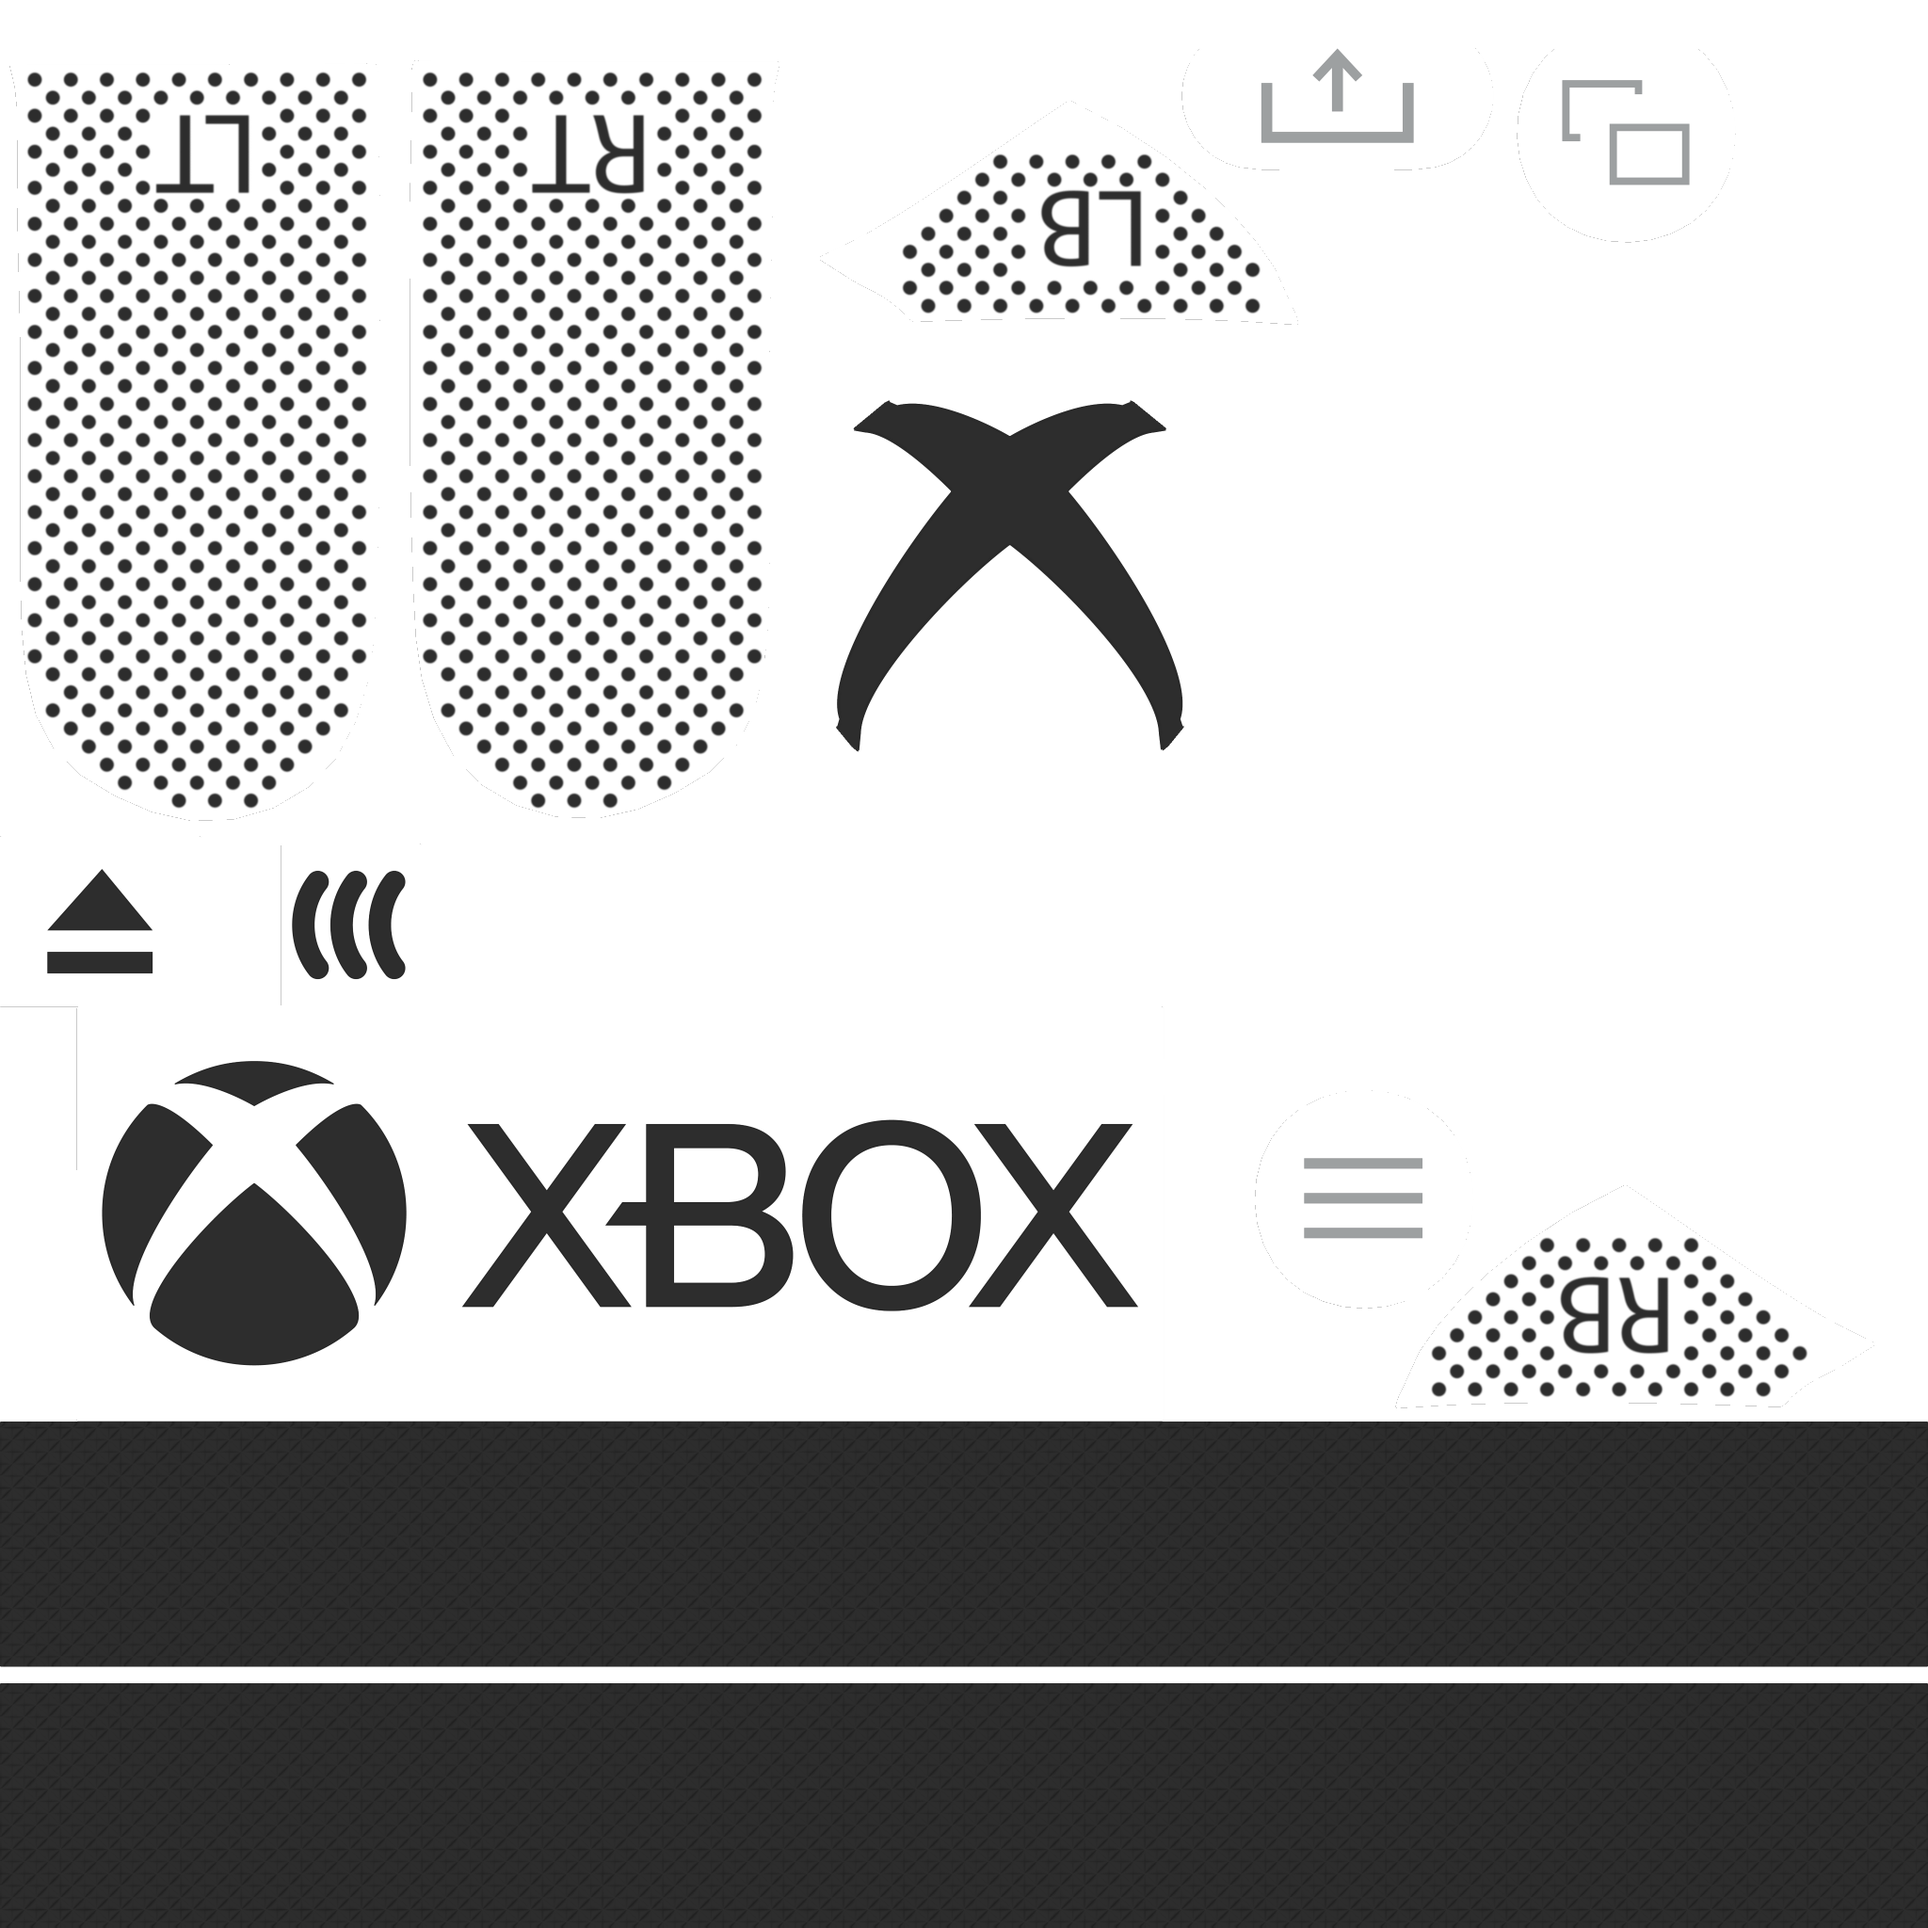
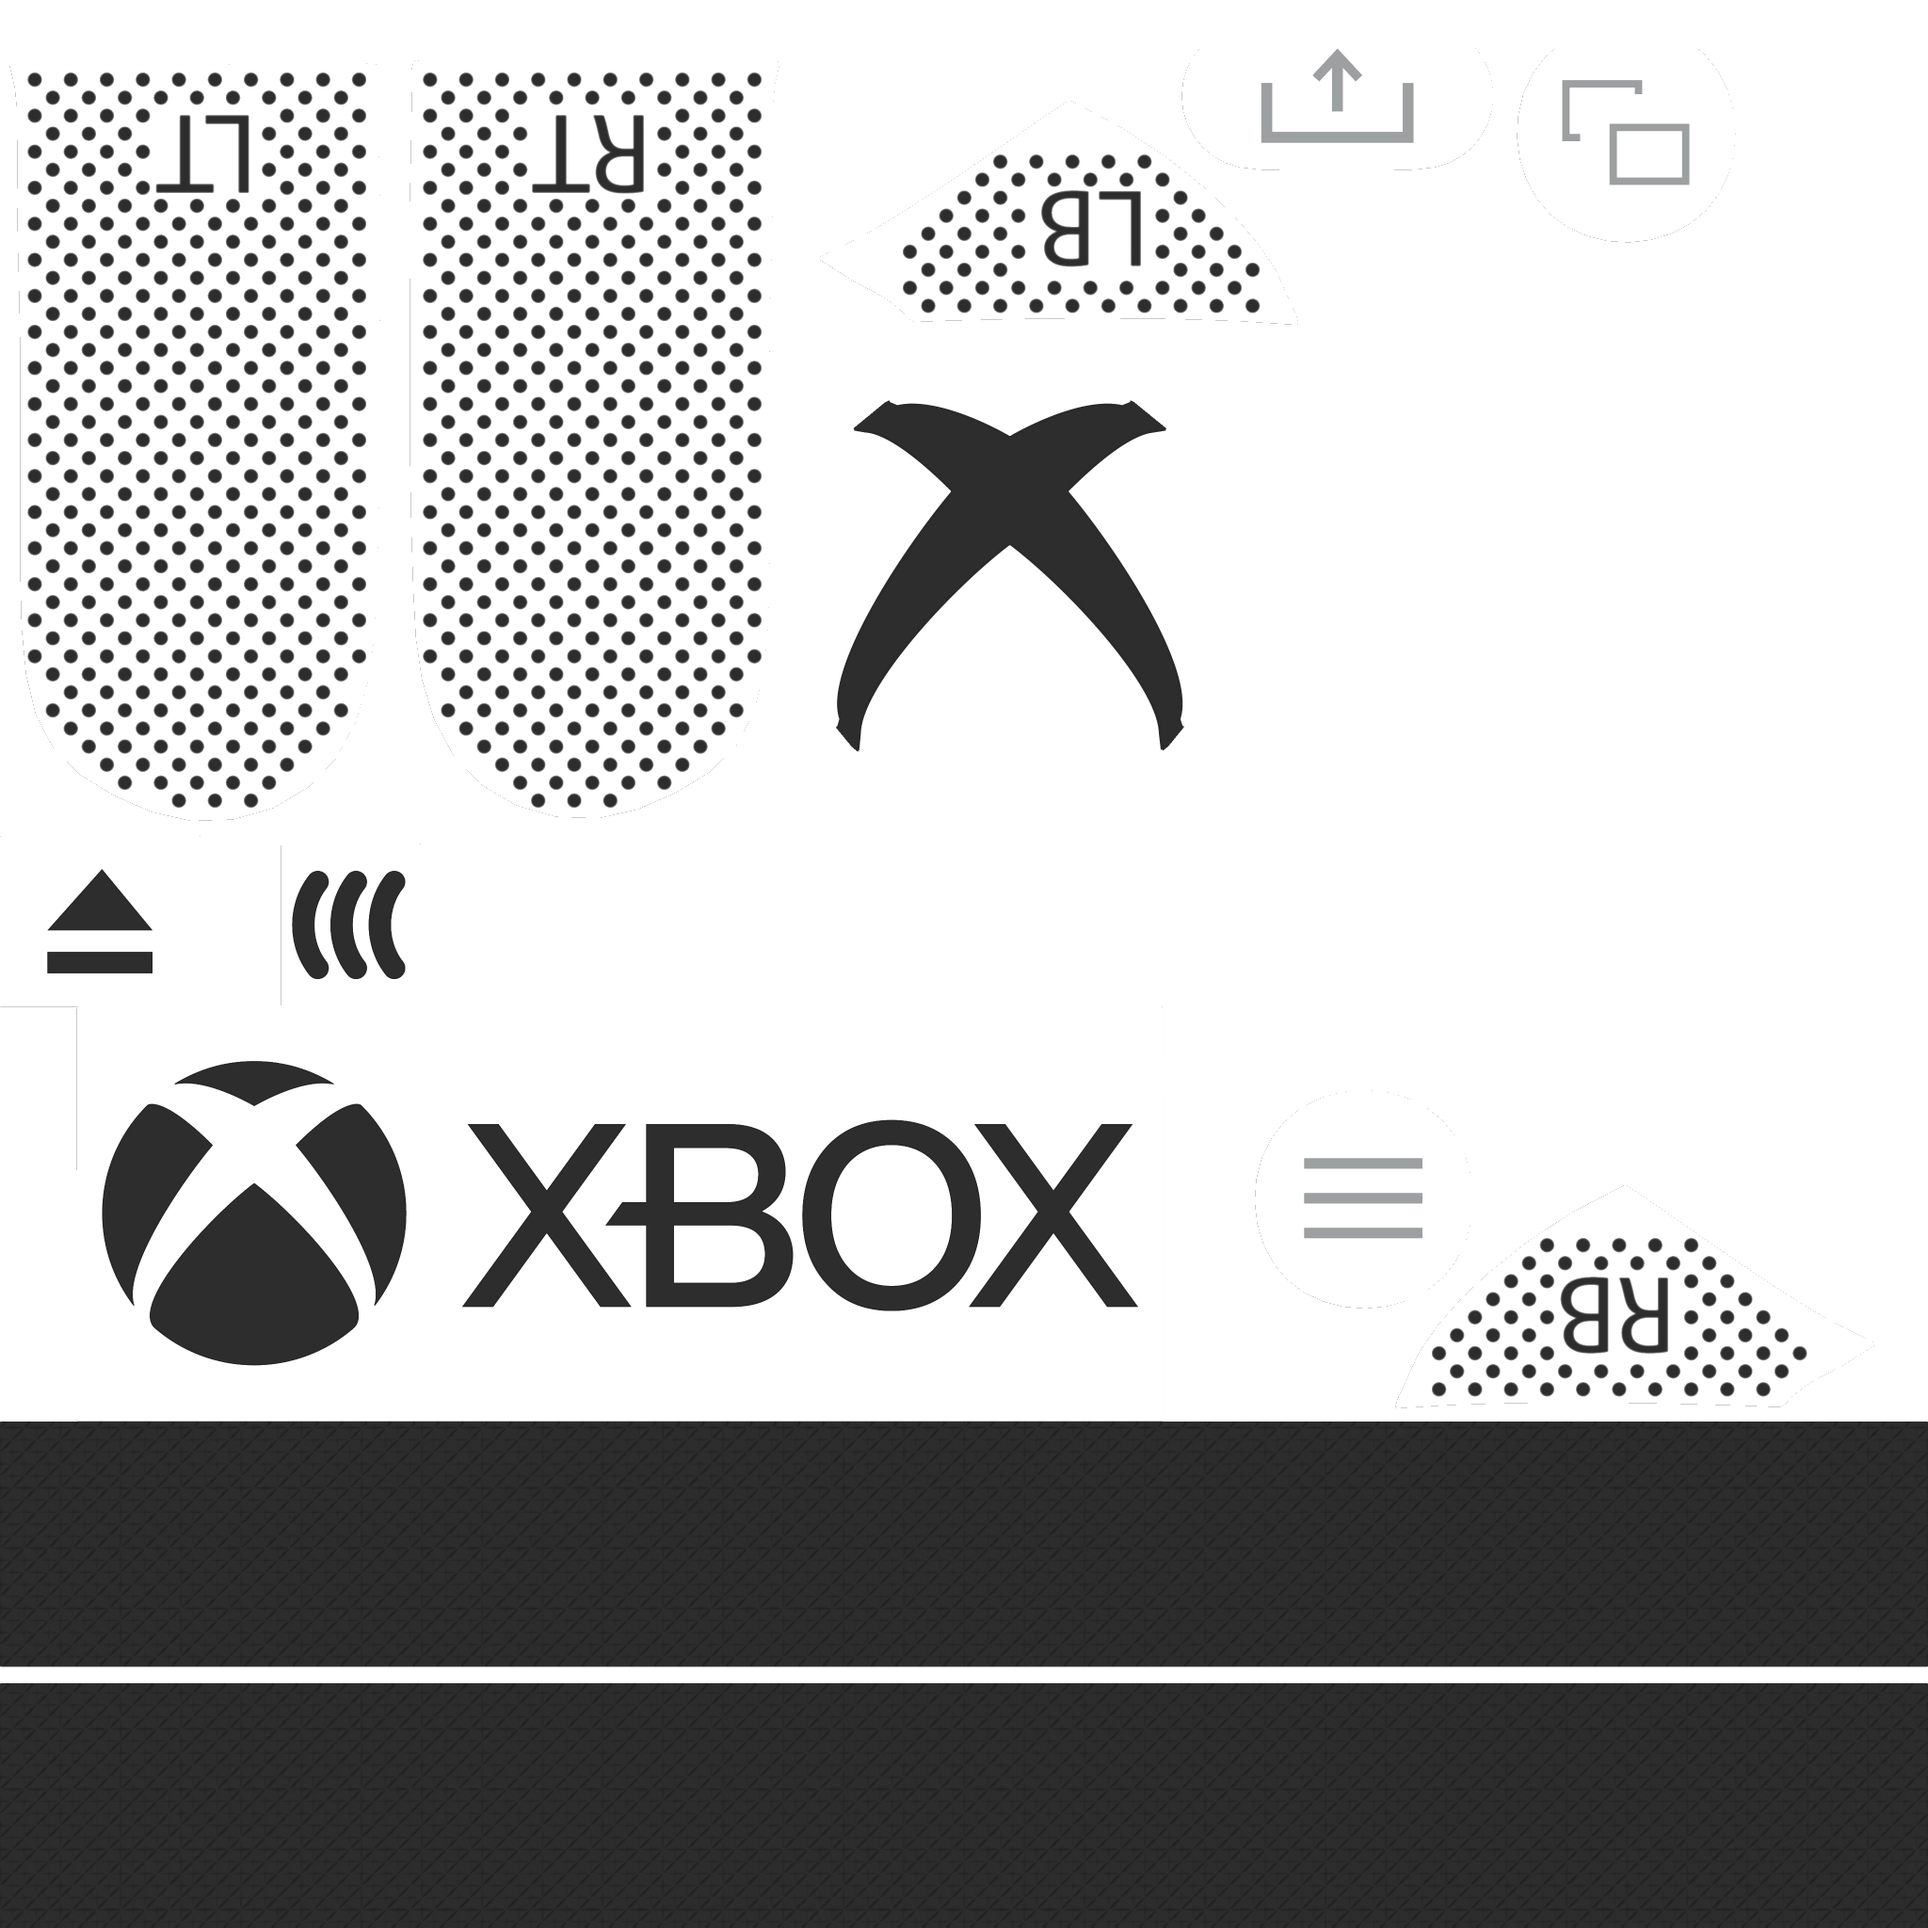
Preview glow deadzone, hover rider tint, decal alpha floor
The deployed binary was verified current (embedded atlas hashes match
disk), so the three surviving Series defects were runtime behavior:

Right stick cap 'off hue': UpdateJoystick had a ZERO visual deadzone
(moved = normX != 0), so a drifting physical stick keeps its ring
permanently accent-tinted. The owner's right stick drifts, the left
does not, which is why only the right cap read wrong while every
atlas measurement came back symmetric. Sticks now gate the preview
glow at 5%, triggers at 3%. Mapping input is untouched.

Guide button hover: the hover highlight swapped only the primary
mesh, and the emblem rider covers it, so hovering showed a thin
orange rim around a white emblem. Hover now tints riders through
their own brush like the flash path (SetRiderFlash/RestoreRiderFlash
shared).

Boxing around labels: the decal O maps carry a faint 0.05-0.2
background film across each plate, rendering as a translucent box
over the body. Decal bakes now floor alpha below 0.30 to zero (glyph
antialiasing at 0.3+ survives); both XS decal atlases rebaked and
re-padded. Dome/transparent bakes are not floored.

Tests: 2883 green. Embed hash verified against disk post-publish.

diff --git a/PadForge.App/Views/ControllerModelView.xaml.cs b/PadForge.App/Views/ControllerModelView.xaml.cs
@@ -568,7 +568,13 @@ namespace PadForge.Views
             // the ring group (the cap AND its knurl decal riders) grades
             // with deflection so the head glows as one piece.
             {
-                bool moved = normX != 0f || normY != 0f;
+                // Visual deadzone: real sticks rarely report exactly zero,
+                // and a drifting stick otherwise keeps its ring permanently
+                // accent-tinted (owner saw the RIGHT cap "off hue" while the
+                // left was fine; atlases were identical, this glow was the
+                // difference). Mapping is unaffected, this gates only the
+                // preview glow.
+                bool moved = Math.Abs(normX) > 0.05f || Math.Abs(normY) > 0.05f;
                 float factor = Math.Max(Math.Abs(normX), Math.Abs(normY));
                 _currentModel.DefaultMaterials.TryGetValue(thumbRing, out var defMat);
                 _currentModel.HighlightMaterials.TryGetValue(thumbRing, out var hlMat);
@@ -649,7 +655,9 @@ namespace PadForge.Views
                 foreach (var child in triggerModel.Children)
                 {
                     if (child is not GeometryModel3D g2) continue;
-                    if (value > 0 && defMat != null && hlMat != null)
+                    // Same visual deadzone as the sticks: trigger sensor
+                    // noise must not keep the pull glow lit at rest.
+                    if (value > 0.03f && defMat != null && hlMat != null)
                         g2.Material = GradientHighlight(g2,
                             s_riderDefaults.GetValue(g2, _ => g2.Material), hlMat, value,
                             _currentModel.RiderDecals.Contains(g2));
@@ -1135,6 +1143,9 @@ namespace PadForge.Views
             {
                 geo.Material = hlMat;
                 geo.BackMaterial = hlMat;
+                // A rider decal covering its host (the guide emblem) would
+                // otherwise hide the hover accent entirely.
+                SetRiderFlash(group, geo, hlMat);
             }
         }
 
@@ -1164,6 +1175,7 @@ namespace PadForge.Views
                 geo.Material = defMat;
                 geo.BackMaterial = defMat;
             }
+            RestoreRiderFlash(group, geo);
         }
 
         private void ShowHoverQuadrant(string target)
